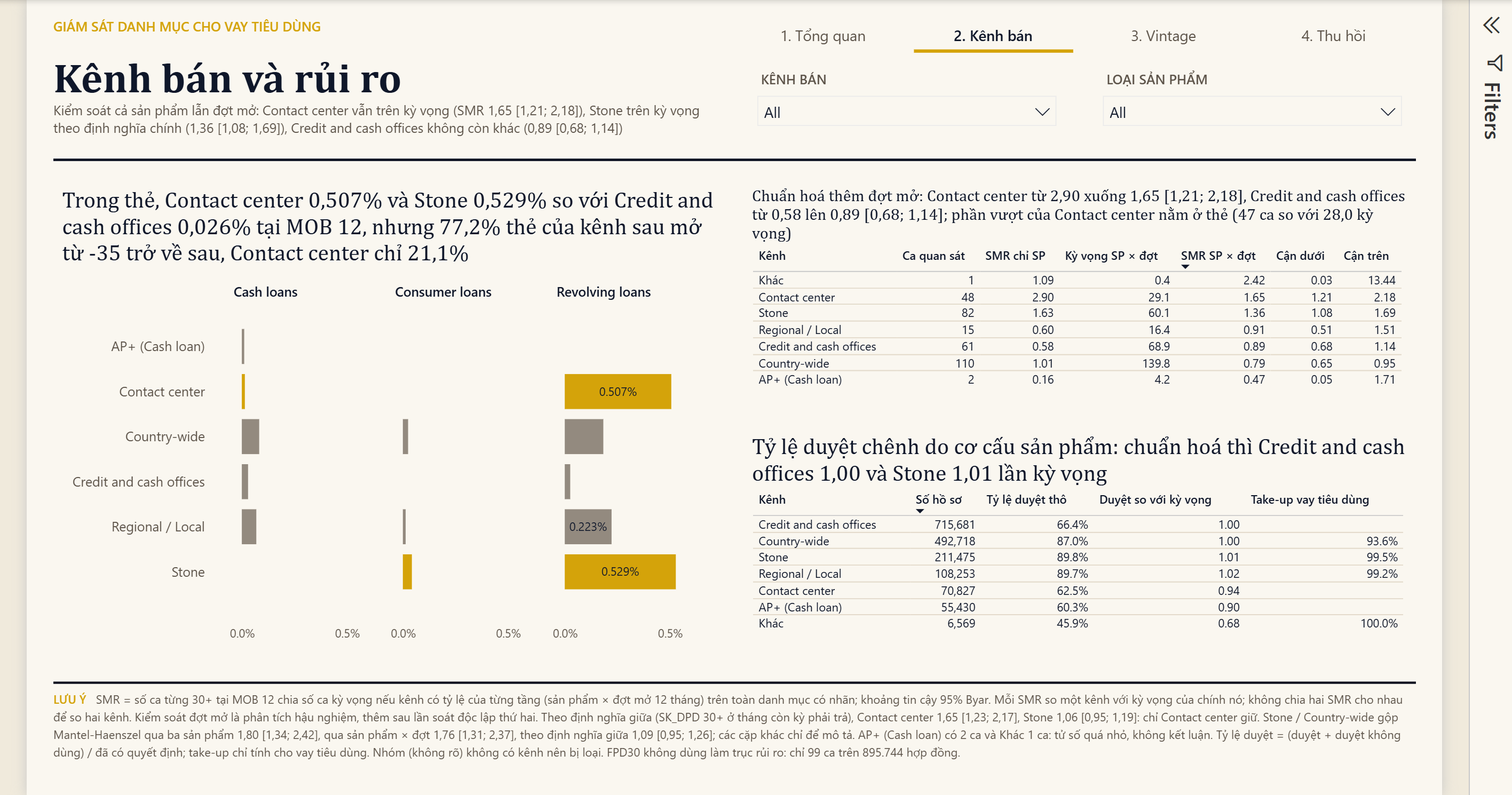
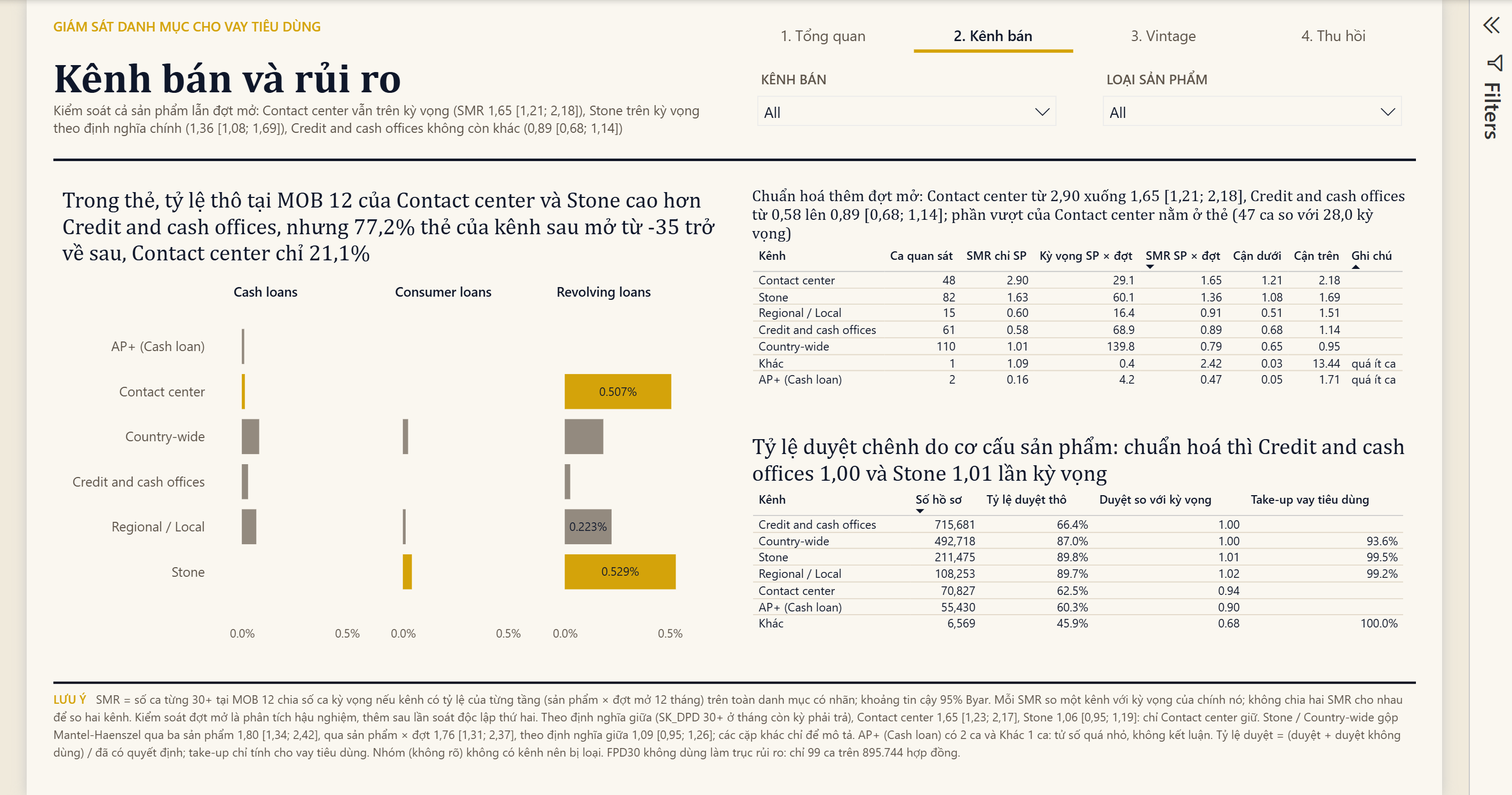
Trang 2: đẩy kênh quá ít ca xuống cuối bảng SMR, bỏ so tỷ lệ thô ở tiêu đề
- Bảng SMR (HTML và Power BI): kênh dưới 5 ca quan sát xếp cuối. Power BI thêm
  measure SMR MOB12 Few Cases Note ("quá ít ca") làm khoá sắp thứ nhất, SMR là
  khoá thứ hai; HTML ghi chú kênh dưới 5 ca quá ít ca, không kết luận.
- Tiêu đề biểu đồ kênh: không còn so ba tỷ lệ thô không kèm khoảng tin cậy ở vị
  trí nổi bật, giữ nguyên ý.
- Chụp lại ảnh trang 2.

diff --git a/dashboard/index.html b/dashboard/index.html
@@ -241,7 +241,7 @@ Dư nợ proxy: 0,048 tỷ" /><text x="60" y="88.0" class="t-label" text-anchor=
 40 hợp đồng (0,028% danh mục)
 Dư nợ proxy: 0,031 tỷ" /><text x="60" y="122.0" class="t-label" text-anchor="end" dominant-baseline="central" style="font-size:12.5px">B4 90+</text><rect x="70" y="112.0" width="13.4" height="20" class="f-grey" /><text x="89.4" y="122.0" class="t-value" dominant-baseline="central">56</text><rect class="hit" x="0" y="105" width="360" height="34" tabindex="0" data-tip="B4 90+
 56 hợp đồng (0,039% danh mục)
-Dư nợ proxy: 0,014 tỷ" /><line x1="70" y1="2" x2="70" y2="140" class="s-rule" /></svg></section><section class="viz "><h3 class="viz-title">Vay tiền mặt gánh 113 trên 159 ca 30+ đang mở, tỷ lệ 0,256% [0,213; 0,308]</h3><div class="table-wrap "><table><thead><tr><th>Sản phẩm</th><th class="num">Số hợp đồng mở</th><th class="num">Số hợp đồng 30+</th><th class="num">Tỷ lệ 30+ hiện tại</th></tr></thead><tbody><tr><td>(không rõ)</td><td class="num">6.810</td><td class="num">29</td><td class="num">0,426%</td></tr><tr><td>Vay tiền mặt</td><td class="num">44.098</td><td class="num">113</td><td class="num">0,256%</td></tr><tr><td>Vay tiêu dùng trả góp</td><td class="num">43.322</td><td class="num">12</td><td class="num">0,028%</td></tr><tr><td>Thẻ quay vòng</td><td class="num">50.191</td><td class="num">5</td><td class="num">0,010%</td></tr></tbody><tfoot><tr><td>Tổng</td><td class="num">144.421</td><td class="num">159</td><td class="num">0,110%</td></tr></tfoot></table></div></section></div></div><div class="rule-grey" role="presentation"></div><p class="caveat"><span class="caveat-tag">LƯU Ý</span>Ảnh chụp tại tháng quan sát gần nhất (144.421 hợp đồng mở). Hai thẻ tỷ lệ tính trên cùng một tập 144.311 hợp đồng có dư nợ proxy, tức bỏ 110 hợp đồng thiếu dư nợ chứa 24 trên 159 ca 30+, toàn bộ thuộc nhóm (không rõ); bỏ hẳn nhóm (không rõ) cũng ra 0,094% (130 / 137.611). Biểu đồ kênh và bảng sản phẩm tính trên mọi hợp đồng mở (30+ là 0,110%); khoảng tin cậy giữa các kênh chồng nhau và mỗi kênh bán một rổ sản phẩm khác nhau, nên biểu đồ không dùng để xếp hạng kênh. Nhóm (không rõ) chiếm 4,72% hợp đồng mở nhưng 29 trên 159 ca 30+: giữ trong bảng, loại khỏi biểu đồ kênh. Độ nhạy: nếu không áp ngưỡng trọng yếu (SK_DPD) thì có 585 hợp đồng 30+ và B4 90+ là 438 thay vì 56, nhưng tỷ lệ dư nợ 30+ chỉ từ 0,301% lên 0,312%: phần chênh là khoản dư lẻ.</p></section><section class="page" id="sec-2" data-hash="page-2" role="tabpanel" aria-labelledby="tab-2"><header class="masthead"><h2 class="page-title">Kênh bán và rủi ro</h2><p class="dek">Kiểm soát cả sản phẩm lẫn đợt mở: Contact center vẫn trên kỳ vọng (SMR 1,65 [1,21; 2,18]), Stone trên kỳ vọng theo định nghĩa chính (1,36 [1,08; 1,69]), Credit and cash offices không còn khác (0,89 [0,68; 1,14])</p></header><div class="rule-ink" role="presentation"></div><section class="viz viz-wide"><h3 class="viz-title">Trong thẻ, Contact center 0,507% và Stone 0,529% so với Credit and cash offices 0,026% tại MOB 12, nhưng 77,2% thẻ của kênh sau mở từ -35 trở về sau, Contact center chỉ 21,1%</h3><p class="viz-sub">Từng quá hạn 30+ tại MOB 12, mỗi ô một loại sản phẩm, thang chung từ 0 đến 0,6%; kênh Khác bị bỏ vì mẫu số nhỏ. Vay tiêu dùng: Stone 0,043% so với Country-wide 0,025%. Vay tiền mặt: Country-wide 0,083% so với Credit and cash offices 0,030%.</p><div class="trellis-3"><figure class="panel"><figcaption>Vay tiền mặt<span class="en">Cash loans</span></figcaption><svg class="chart " viewBox="0 0 360 186" role="img" aria-label="Ô Vay tiền mặt: tỷ lệ từng 30+ tại MOB 12 theo kênh, cùng thang với hai ô kia. Contact center 0,014%; Stone 0,000%; Country-wide 0,083%; Regional / Local 0,069%; Credit and cash offices 0,030%; AP+ (Cash loan) 0,011%" xmlns="http://www.w3.org/2000/svg"><text x="140" y="18.0" class="t-label" text-anchor="end" dominant-baseline="central" style="font-size:12px">Contact center</text><rect x="150" y="10.0" width="3.5" height="16" class="f-accent" /><text x="159.5" y="18.0" class="t-value" dominant-baseline="central">0,014%</text><rect class="hit" x="0" y="3" width="360" height="30" tabindex="0" data-tip="Contact center · Vay tiền mặt
+Dư nợ proxy: 0,014 tỷ" /><line x1="70" y1="2" x2="70" y2="140" class="s-rule" /></svg></section><section class="viz "><h3 class="viz-title">Vay tiền mặt gánh 113 trên 159 ca 30+ đang mở, tỷ lệ 0,256% [0,213; 0,308]</h3><div class="table-wrap "><table><thead><tr><th>Sản phẩm</th><th class="num">Số hợp đồng mở</th><th class="num">Số hợp đồng 30+</th><th class="num">Tỷ lệ 30+ hiện tại</th></tr></thead><tbody><tr><td>(không rõ)</td><td class="num">6.810</td><td class="num">29</td><td class="num">0,426%</td></tr><tr><td>Vay tiền mặt</td><td class="num">44.098</td><td class="num">113</td><td class="num">0,256%</td></tr><tr><td>Vay tiêu dùng trả góp</td><td class="num">43.322</td><td class="num">12</td><td class="num">0,028%</td></tr><tr><td>Thẻ quay vòng</td><td class="num">50.191</td><td class="num">5</td><td class="num">0,010%</td></tr></tbody><tfoot><tr><td>Tổng</td><td class="num">144.421</td><td class="num">159</td><td class="num">0,110%</td></tr></tfoot></table></div></section></div></div><div class="rule-grey" role="presentation"></div><p class="caveat"><span class="caveat-tag">LƯU Ý</span>Ảnh chụp tại tháng quan sát gần nhất (144.421 hợp đồng mở). Hai thẻ tỷ lệ tính trên cùng một tập 144.311 hợp đồng có dư nợ proxy, tức bỏ 110 hợp đồng thiếu dư nợ chứa 24 trên 159 ca 30+, toàn bộ thuộc nhóm (không rõ); bỏ hẳn nhóm (không rõ) cũng ra 0,094% (130 / 137.611). Biểu đồ kênh và bảng sản phẩm tính trên mọi hợp đồng mở (30+ là 0,110%); khoảng tin cậy giữa các kênh chồng nhau và mỗi kênh bán một rổ sản phẩm khác nhau, nên biểu đồ không dùng để xếp hạng kênh. Nhóm (không rõ) chiếm 4,72% hợp đồng mở nhưng 29 trên 159 ca 30+: giữ trong bảng, loại khỏi biểu đồ kênh. Độ nhạy: nếu không áp ngưỡng trọng yếu (SK_DPD) thì có 585 hợp đồng 30+ và B4 90+ là 438 thay vì 56, nhưng tỷ lệ dư nợ 30+ chỉ từ 0,301% lên 0,312%: phần chênh là khoản dư lẻ.</p></section><section class="page" id="sec-2" data-hash="page-2" role="tabpanel" aria-labelledby="tab-2"><header class="masthead"><h2 class="page-title">Kênh bán và rủi ro</h2><p class="dek">Kiểm soát cả sản phẩm lẫn đợt mở: Contact center vẫn trên kỳ vọng (SMR 1,65 [1,21; 2,18]), Stone trên kỳ vọng theo định nghĩa chính (1,36 [1,08; 1,69]), Credit and cash offices không còn khác (0,89 [0,68; 1,14])</p></header><div class="rule-ink" role="presentation"></div><section class="viz viz-wide"><h3 class="viz-title">Trong thẻ, tỷ lệ thô tại MOB 12 của Contact center và Stone cao hơn Credit and cash offices, nhưng 77,2% thẻ của kênh sau mở từ -35 trở về sau, Contact center chỉ 21,1%</h3><p class="viz-sub">Từng quá hạn 30+ tại MOB 12, mỗi ô một loại sản phẩm, thang chung từ 0 đến 0,6%; kênh Khác bị bỏ vì mẫu số nhỏ. Vay tiêu dùng: Stone 0,043% so với Country-wide 0,025%. Vay tiền mặt: Country-wide 0,083% so với Credit and cash offices 0,030%.</p><div class="trellis-3"><figure class="panel"><figcaption>Vay tiền mặt<span class="en">Cash loans</span></figcaption><svg class="chart " viewBox="0 0 360 186" role="img" aria-label="Ô Vay tiền mặt: tỷ lệ từng 30+ tại MOB 12 theo kênh, cùng thang với hai ô kia. Contact center 0,014%; Stone 0,000%; Country-wide 0,083%; Regional / Local 0,069%; Credit and cash offices 0,030%; AP+ (Cash loan) 0,011%" xmlns="http://www.w3.org/2000/svg"><text x="140" y="18.0" class="t-label" text-anchor="end" dominant-baseline="central" style="font-size:12px">Contact center</text><rect x="150" y="10.0" width="3.5" height="16" class="f-accent" /><text x="159.5" y="18.0" class="t-value" dominant-baseline="central">0,014%</text><rect class="hit" x="0" y="3" width="360" height="30" tabindex="0" data-tip="Contact center · Vay tiền mặt
 Từng 30+ tại MOB 12: 0,014%
 1 trên 6.924 hợp đồng" /><text x="140" y="48.0" class="t-label" text-anchor="end" dominant-baseline="central" style="font-size:12px">Stone</text><rect x="150" y="40.0" width="0.0" height="16" class="f-accent" /><text x="156.0" y="48.0" class="t-value" dominant-baseline="central">0,000%</text><rect class="hit" x="0" y="33" width="360" height="30" tabindex="0" data-tip="Stone · Vay tiền mặt
 Từng 30+ tại MOB 12: 0,000%
@@ -271,49 +271,49 @@ Từng 30+ tại MOB 12: 0,223%
 Từng 30+ tại MOB 12: 0,026%
 8 trên 30.821 hợp đồng" /><text x="140" y="168.0" class="t-label" text-anchor="end" dominant-baseline="central" style="font-size:12px">AP+ (Cash loan)</text><rect x="150" y="160.0" width="0.0" height="16" class="f-grey" /><text x="156.0" y="168.0" class="t-value" dominant-baseline="central">0,000%</text><rect class="hit" x="0" y="153" width="360" height="30" tabindex="0" data-tip="AP+ (Cash loan) · Thẻ quay vòng
 Từng 30+ tại MOB 12: 0,000%
-0 trên 4.424 hợp đồng" /><line x1="150" y1="2" x2="150" y2="184" class="s-rule" /></svg></figure></div><p class="viz-note">* mẫu số tại MOB 12 dưới 1.000 hợp đồng, không diễn giải.</p></section><div class="grid-2"><section class="viz "><h3 class="viz-title">Chuẩn hoá thêm đợt mở: Contact center từ 2,90 xuống 1,65 [1,21; 2,18], Credit and cash offices từ 0,58 lên 0,89 [0,68; 1,14]; phần vượt của Contact center nằm ở thẻ (47 ca so với 28,0 kỳ vọng)</h3><div class="only-wide"><svg class="chart " viewBox="0 0 560 240" role="img" aria-label="SMR từng 30+ tại MOB 12 theo kênh, chuẩn hoá theo sản phẩm × đợt mở, kèm khoảng tin cậy 95%: Khác 2,42 [0,03; 13,44] (chỉ sản phẩm 1,09); Contact center 1,65 [1,21; 2,18] (chỉ sản phẩm 2,90); Stone 1,36 [1,08; 1,69] (chỉ sản phẩm 1,63); Regional / Local 0,91 [0,51; 1,51] (chỉ sản phẩm 0,60); Credit and cash offices 0,89 [0,68; 1,14] (chỉ sản phẩm 0,58); Country-wide 0,79 [0,65; 0,95] (chỉ sản phẩm 1,01); AP+ (Cash loan) 0,47 [0,05; 1,71] (chỉ sản phẩm 0,16)" xmlns="http://www.w3.org/2000/svg"><text x="150.0" y="234" class="t-axis" text-anchor="middle">0</text><text x="223.0" y="234" class="t-axis" text-anchor="middle">1</text><text x="296.0" y="234" class="t-axis" text-anchor="middle">2</text><text x="369.0" y="234" class="t-axis" text-anchor="middle">3</text><text x="442.0" y="234" class="t-axis" text-anchor="middle">4</text><line x1="223.0" x2="223.0" y1="4" y2="220" class="s-base" stroke-dasharray="3 3" /><text x="140" y="21.0" class="t-label" text-anchor="end" dominant-baseline="central" style="font-size:12.5px">Khác</text><line x1="152.3" x2="442.0" y1="21.0" y2="21.0" class="s-greyl" stroke-width="3" stroke-linecap="round" /><circle cx="229.8" cy="21.0" r="4.5" fill="none" class="s-ink" stroke-width="1.4" /><circle cx="326.3" cy="21.0" r="5.5" class="f-grey" /><text x="450" y="21.0" class="t-muted" dominant-baseline="central">2,42 [0,03; 13,44]</text><rect class="hit" x="0" y="6" width="560" height="30" tabindex="0" data-tip="Khác
+0 trên 4.424 hợp đồng" /><line x1="150" y1="2" x2="150" y2="184" class="s-rule" /></svg></figure></div><p class="viz-note">* mẫu số tại MOB 12 dưới 1.000 hợp đồng, không diễn giải.</p></section><div class="grid-2"><section class="viz "><h3 class="viz-title">Chuẩn hoá thêm đợt mở: Contact center từ 2,90 xuống 1,65 [1,21; 2,18], Credit and cash offices từ 0,58 lên 0,89 [0,68; 1,14]; phần vượt của Contact center nằm ở thẻ (47 ca so với 28,0 kỳ vọng)</h3><div class="only-wide"><svg class="chart " viewBox="0 0 560 240" role="img" aria-label="SMR từng 30+ tại MOB 12 theo kênh, chuẩn hoá theo sản phẩm × đợt mở, kèm khoảng tin cậy 95%: Contact center 1,65 [1,21; 2,18] (chỉ sản phẩm 2,90); Stone 1,36 [1,08; 1,69] (chỉ sản phẩm 1,63); Regional / Local 0,91 [0,51; 1,51] (chỉ sản phẩm 0,60); Credit and cash offices 0,89 [0,68; 1,14] (chỉ sản phẩm 0,58); Country-wide 0,79 [0,65; 0,95] (chỉ sản phẩm 1,01); Khác 2,42 [0,03; 13,44] (chỉ sản phẩm 1,09); AP+ (Cash loan) 0,47 [0,05; 1,71] (chỉ sản phẩm 0,16)" xmlns="http://www.w3.org/2000/svg"><text x="150.0" y="234" class="t-axis" text-anchor="middle">0</text><text x="223.0" y="234" class="t-axis" text-anchor="middle">1</text><text x="296.0" y="234" class="t-axis" text-anchor="middle">2</text><text x="369.0" y="234" class="t-axis" text-anchor="middle">3</text><text x="442.0" y="234" class="t-axis" text-anchor="middle">4</text><line x1="223.0" x2="223.0" y1="4" y2="220" class="s-base" stroke-dasharray="3 3" /><text x="140" y="21.0" class="t-label t-strong" text-anchor="end" dominant-baseline="central" style="font-size:12.5px">Contact center</text><line x1="238.7" x2="309.5" y1="21.0" y2="21.0" class="s-accent" stroke-width="3" stroke-linecap="round" /><circle cx="361.5" cy="21.0" r="4.5" fill="none" class="s-ink" stroke-width="1.4" /><circle cx="270.3" cy="21.0" r="5.5" class="f-accent" /><text x="450" y="21.0" class="t-value" dominant-baseline="central">1,65 [1,21; 2,18]</text><rect class="hit" x="0" y="6" width="560" height="30" tabindex="0" data-tip="Contact center
+SMR sản phẩm × đợt mở 1,65 [1,21; 2,18]
+SMR chỉ sản phẩm 2,90
+Quan sát 48 ca, kỳ vọng 29,1 ca" /><text x="140" y="51.0" class="t-label t-strong" text-anchor="end" dominant-baseline="central" style="font-size:12.5px">Stone</text><line x1="229.2" x2="273.6" y1="51.0" y2="51.0" class="s-accent" stroke-width="3" stroke-linecap="round" /><circle cx="269.0" cy="51.0" r="4.5" fill="none" class="s-ink" stroke-width="1.4" /><circle cx="249.6" cy="51.0" r="5.5" class="f-accent" /><text x="450" y="51.0" class="t-value" dominant-baseline="central">1,36 [1,08; 1,69]</text><rect class="hit" x="0" y="36" width="560" height="30" tabindex="0" data-tip="Stone
+SMR sản phẩm × đợt mở 1,36 [1,08; 1,69]
+SMR chỉ sản phẩm 1,63
+Quan sát 82 ca, kỳ vọng 60,1 ca" /><text x="140" y="81.0" class="t-label" text-anchor="end" dominant-baseline="central" style="font-size:12.5px">Regional / Local</text><line x1="187.4" x2="260.2" y1="81.0" y2="81.0" class="s-greyl" stroke-width="3" stroke-linecap="round" /><circle cx="194.1" cy="81.0" r="4.5" fill="none" class="s-ink" stroke-width="1.4" /><circle cx="216.8" cy="81.0" r="5.5" class="f-grey" /><text x="450" y="81.0" class="t-value" dominant-baseline="central">0,91 [0,51; 1,51]</text><rect class="hit" x="0" y="66" width="560" height="30" tabindex="0" data-tip="Regional / Local
+SMR sản phẩm × đợt mở 0,91 [0,51; 1,51]
+SMR chỉ sản phẩm 0,60
+Quan sát 15 ca, kỳ vọng 16,4 ca" /><text x="140" y="111.0" class="t-label" text-anchor="end" dominant-baseline="central" style="font-size:12.5px">Credit and cash offices</text><line x1="199.4" x2="233.0" y1="111.0" y2="111.0" class="s-greyl" stroke-width="3" stroke-linecap="round" /><circle cx="192.5" cy="111.0" r="4.5" fill="none" class="s-ink" stroke-width="1.4" /><circle cx="214.6" cy="111.0" r="5.5" class="f-grey" /><text x="450" y="111.0" class="t-value" dominant-baseline="central">0,89 [0,68; 1,14]</text><rect class="hit" x="0" y="96" width="560" height="30" tabindex="0" data-tip="Credit and cash offices
+SMR sản phẩm × đợt mở 0,89 [0,68; 1,14]
+SMR chỉ sản phẩm 0,58
+Quan sát 61 ca, kỳ vọng 68,9 ca" /><text x="140" y="141.0" class="t-label" text-anchor="end" dominant-baseline="central" style="font-size:12.5px">Country-wide</text><line x1="197.2" x2="219.2" y1="141.0" y2="141.0" class="s-greyl" stroke-width="3" stroke-linecap="round" /><circle cx="223.5" cy="141.0" r="4.5" fill="none" class="s-ink" stroke-width="1.4" /><circle cx="207.4" cy="141.0" r="5.5" class="f-grey" /><text x="450" y="141.0" class="t-value" dominant-baseline="central">0,79 [0,65; 0,95]</text><rect class="hit" x="0" y="126" width="560" height="30" tabindex="0" data-tip="Country-wide
+SMR sản phẩm × đợt mở 0,79 [0,65; 0,95]
+SMR chỉ sản phẩm 1,01
+Quan sát 110 ca, kỳ vọng 139,8 ca" /><text x="140" y="171.0" class="t-label" text-anchor="end" dominant-baseline="central" style="font-size:12.5px">Khác</text><line x1="152.3" x2="442.0" y1="171.0" y2="171.0" class="s-greyl" stroke-width="3" stroke-linecap="round" /><circle cx="229.8" cy="171.0" r="4.5" fill="none" class="s-ink" stroke-width="1.4" /><circle cx="326.3" cy="171.0" r="5.5" class="f-grey" /><text x="450" y="171.0" class="t-muted" dominant-baseline="central">2,42 [0,03; 13,44]</text><rect class="hit" x="0" y="156" width="560" height="30" tabindex="0" data-tip="Khác
 SMR sản phẩm × đợt mở 2,42 [0,03; 13,44]
 SMR chỉ sản phẩm 1,09
 Quan sát 1 ca, kỳ vọng 0,4 ca
-Tử số dưới 10: không kết luận" /><text x="140" y="51.0" class="t-label t-strong" text-anchor="end" dominant-baseline="central" style="font-size:12.5px">Contact center</text><line x1="238.7" x2="309.5" y1="51.0" y2="51.0" class="s-accent" stroke-width="3" stroke-linecap="round" /><circle cx="361.5" cy="51.0" r="4.5" fill="none" class="s-ink" stroke-width="1.4" /><circle cx="270.3" cy="51.0" r="5.5" class="f-accent" /><text x="450" y="51.0" class="t-value" dominant-baseline="central">1,65 [1,21; 2,18]</text><rect class="hit" x="0" y="36" width="560" height="30" tabindex="0" data-tip="Contact center
-SMR sản phẩm × đợt mở 1,65 [1,21; 2,18]
-SMR chỉ sản phẩm 2,90
-Quan sát 48 ca, kỳ vọng 29,1 ca" /><text x="140" y="81.0" class="t-label t-strong" text-anchor="end" dominant-baseline="central" style="font-size:12.5px">Stone</text><line x1="229.2" x2="273.6" y1="81.0" y2="81.0" class="s-accent" stroke-width="3" stroke-linecap="round" /><circle cx="269.0" cy="81.0" r="4.5" fill="none" class="s-ink" stroke-width="1.4" /><circle cx="249.6" cy="81.0" r="5.5" class="f-accent" /><text x="450" y="81.0" class="t-value" dominant-baseline="central">1,36 [1,08; 1,69]</text><rect class="hit" x="0" y="66" width="560" height="30" tabindex="0" data-tip="Stone
-SMR sản phẩm × đợt mở 1,36 [1,08; 1,69]
-SMR chỉ sản phẩm 1,63
-Quan sát 82 ca, kỳ vọng 60,1 ca" /><text x="140" y="111.0" class="t-label" text-anchor="end" dominant-baseline="central" style="font-size:12.5px">Regional / Local</text><line x1="187.4" x2="260.2" y1="111.0" y2="111.0" class="s-greyl" stroke-width="3" stroke-linecap="round" /><circle cx="194.1" cy="111.0" r="4.5" fill="none" class="s-ink" stroke-width="1.4" /><circle cx="216.8" cy="111.0" r="5.5" class="f-grey" /><text x="450" y="111.0" class="t-value" dominant-baseline="central">0,91 [0,51; 1,51]</text><rect class="hit" x="0" y="96" width="560" height="30" tabindex="0" data-tip="Regional / Local
-SMR sản phẩm × đợt mở 0,91 [0,51; 1,51]
-SMR chỉ sản phẩm 0,60
-Quan sát 15 ca, kỳ vọng 16,4 ca" /><text x="140" y="141.0" class="t-label" text-anchor="end" dominant-baseline="central" style="font-size:12.5px">Credit and cash offices</text><line x1="199.4" x2="233.0" y1="141.0" y2="141.0" class="s-greyl" stroke-width="3" stroke-linecap="round" /><circle cx="192.5" cy="141.0" r="4.5" fill="none" class="s-ink" stroke-width="1.4" /><circle cx="214.6" cy="141.0" r="5.5" class="f-grey" /><text x="450" y="141.0" class="t-value" dominant-baseline="central">0,89 [0,68; 1,14]</text><rect class="hit" x="0" y="126" width="560" height="30" tabindex="0" data-tip="Credit and cash offices
-SMR sản phẩm × đợt mở 0,89 [0,68; 1,14]
-SMR chỉ sản phẩm 0,58
-Quan sát 61 ca, kỳ vọng 68,9 ca" /><text x="140" y="171.0" class="t-label" text-anchor="end" dominant-baseline="central" style="font-size:12.5px">Country-wide</text><line x1="197.2" x2="219.2" y1="171.0" y2="171.0" class="s-greyl" stroke-width="3" stroke-linecap="round" /><circle cx="223.5" cy="171.0" r="4.5" fill="none" class="s-ink" stroke-width="1.4" /><circle cx="207.4" cy="171.0" r="5.5" class="f-grey" /><text x="450" y="171.0" class="t-value" dominant-baseline="central">0,79 [0,65; 0,95]</text><rect class="hit" x="0" y="156" width="560" height="30" tabindex="0" data-tip="Country-wide
-SMR sản phẩm × đợt mở 0,79 [0,65; 0,95]
-SMR chỉ sản phẩm 1,01
-Quan sát 110 ca, kỳ vọng 139,8 ca" /><text x="140" y="201.0" class="t-label" text-anchor="end" dominant-baseline="central" style="font-size:12.5px">AP+ (Cash loan)</text><line x1="153.9" x2="274.9" y1="201.0" y2="201.0" class="s-greyl" stroke-width="3" stroke-linecap="round" /><circle cx="161.7" cy="201.0" r="4.5" fill="none" class="s-ink" stroke-width="1.4" /><circle cx="184.6" cy="201.0" r="5.5" class="f-grey" /><text x="450" y="201.0" class="t-muted" dominant-baseline="central">0,47 [0,05; 1,71]</text><rect class="hit" x="0" y="186" width="560" height="30" tabindex="0" data-tip="AP+ (Cash loan)
+Tử số dưới 10: không kết luận" /><text x="140" y="201.0" class="t-label" text-anchor="end" dominant-baseline="central" style="font-size:12.5px">AP+ (Cash loan)</text><line x1="153.9" x2="274.9" y1="201.0" y2="201.0" class="s-greyl" stroke-width="3" stroke-linecap="round" /><circle cx="161.7" cy="201.0" r="4.5" fill="none" class="s-ink" stroke-width="1.4" /><circle cx="184.6" cy="201.0" r="5.5" class="f-grey" /><text x="450" y="201.0" class="t-muted" dominant-baseline="central">0,47 [0,05; 1,71]</text><rect class="hit" x="0" y="186" width="560" height="30" tabindex="0" data-tip="AP+ (Cash loan)
 SMR sản phẩm × đợt mở 0,47 [0,05; 1,71]
 SMR chỉ sản phẩm 0,16
 Quan sát 2 ca, kỳ vọng 4,2 ca
-Tử số dưới 10: không kết luận" /></svg></div><div class="only-narrow"><svg class="chart " viewBox="0 0 360 240" role="img" aria-label="SMR từng 30+ tại MOB 12 theo kênh, chuẩn hoá theo sản phẩm × đợt mở, kèm khoảng tin cậy 95%: Khác 2,42 [0,03; 13,44] (chỉ sản phẩm 1,09); Contact center 1,65 [1,21; 2,18] (chỉ sản phẩm 2,90); Stone 1,36 [1,08; 1,69] (chỉ sản phẩm 1,63); Regional / Local 0,91 [0,51; 1,51] (chỉ sản phẩm 0,60); Credit and cash offices 0,89 [0,68; 1,14] (chỉ sản phẩm 0,58); Country-wide 0,79 [0,65; 0,95] (chỉ sản phẩm 1,01); AP+ (Cash loan) 0,47 [0,05; 1,71] (chỉ sản phẩm 0,16)" xmlns="http://www.w3.org/2000/svg"><text x="118.0" y="234" class="t-axis" text-anchor="middle">0</text><text x="154.5" y="234" class="t-axis" text-anchor="middle">1</text><text x="191.0" y="234" class="t-axis" text-anchor="middle">2</text><text x="227.5" y="234" class="t-axis" text-anchor="middle">3</text><text x="264.0" y="234" class="t-axis" text-anchor="middle">4</text><line x1="154.5" x2="154.5" y1="4" y2="220" class="s-base" stroke-dasharray="3 3" /><text x="108" y="21.0" class="t-label" text-anchor="end" dominant-baseline="central" style="font-size:11px">Khác</text><line x1="119.2" x2="264.0" y1="21.0" y2="21.0" class="s-greyl" stroke-width="3" stroke-linecap="round" /><circle cx="157.9" cy="21.0" r="4.5" fill="none" class="s-ink" stroke-width="1.4" /><circle cx="206.2" cy="21.0" r="5.5" class="f-grey" /><text x="272" y="21.0" class="t-muted" dominant-baseline="central">2,42 [0,03; 13,44]</text><rect class="hit" x="0" y="6" width="360" height="30" tabindex="0" data-tip="Khác
+Tử số dưới 10: không kết luận" /></svg></div><div class="only-narrow"><svg class="chart " viewBox="0 0 360 240" role="img" aria-label="SMR từng 30+ tại MOB 12 theo kênh, chuẩn hoá theo sản phẩm × đợt mở, kèm khoảng tin cậy 95%: Contact center 1,65 [1,21; 2,18] (chỉ sản phẩm 2,90); Stone 1,36 [1,08; 1,69] (chỉ sản phẩm 1,63); Regional / Local 0,91 [0,51; 1,51] (chỉ sản phẩm 0,60); Credit and cash offices 0,89 [0,68; 1,14] (chỉ sản phẩm 0,58); Country-wide 0,79 [0,65; 0,95] (chỉ sản phẩm 1,01); Khác 2,42 [0,03; 13,44] (chỉ sản phẩm 1,09); AP+ (Cash loan) 0,47 [0,05; 1,71] (chỉ sản phẩm 0,16)" xmlns="http://www.w3.org/2000/svg"><text x="118.0" y="234" class="t-axis" text-anchor="middle">0</text><text x="154.5" y="234" class="t-axis" text-anchor="middle">1</text><text x="191.0" y="234" class="t-axis" text-anchor="middle">2</text><text x="227.5" y="234" class="t-axis" text-anchor="middle">3</text><text x="264.0" y="234" class="t-axis" text-anchor="middle">4</text><line x1="154.5" x2="154.5" y1="4" y2="220" class="s-base" stroke-dasharray="3 3" /><text x="108" y="21.0" class="t-label t-strong" text-anchor="end" dominant-baseline="central" style="font-size:11px">Contact center</text><line x1="162.3" x2="197.7" y1="21.0" y2="21.0" class="s-accent" stroke-width="3" stroke-linecap="round" /><circle cx="223.7" cy="21.0" r="4.5" fill="none" class="s-ink" stroke-width="1.4" /><circle cx="178.1" cy="21.0" r="5.5" class="f-accent" /><text x="272" y="21.0" class="t-value" dominant-baseline="central">1,65 [1,21; 2,18]</text><rect class="hit" x="0" y="6" width="360" height="30" tabindex="0" data-tip="Contact center
+SMR sản phẩm × đợt mở 1,65 [1,21; 2,18]
+SMR chỉ sản phẩm 2,90
+Quan sát 48 ca, kỳ vọng 29,1 ca" /><text x="108" y="51.0" class="t-label t-strong" text-anchor="end" dominant-baseline="central" style="font-size:11px">Stone</text><line x1="157.6" x2="179.8" y1="51.0" y2="51.0" class="s-accent" stroke-width="3" stroke-linecap="round" /><circle cx="177.5" cy="51.0" r="4.5" fill="none" class="s-ink" stroke-width="1.4" /><circle cx="167.8" cy="51.0" r="5.5" class="f-accent" /><text x="272" y="51.0" class="t-value" dominant-baseline="central">1,36 [1,08; 1,69]</text><rect class="hit" x="0" y="36" width="360" height="30" tabindex="0" data-tip="Stone
+SMR sản phẩm × đợt mở 1,36 [1,08; 1,69]
+SMR chỉ sản phẩm 1,63
+Quan sát 82 ca, kỳ vọng 60,1 ca" /><text x="108" y="81.0" class="t-label" text-anchor="end" dominant-baseline="central" style="font-size:11px">Regional / Local</text><line x1="136.7" x2="173.1" y1="81.0" y2="81.0" class="s-greyl" stroke-width="3" stroke-linecap="round" /><circle cx="140.0" cy="81.0" r="4.5" fill="none" class="s-ink" stroke-width="1.4" /><circle cx="151.4" cy="81.0" r="5.5" class="f-grey" /><text x="272" y="81.0" class="t-value" dominant-baseline="central">0,91 [0,51; 1,51]</text><rect class="hit" x="0" y="66" width="360" height="30" tabindex="0" data-tip="Regional / Local
+SMR sản phẩm × đợt mở 0,91 [0,51; 1,51]
+SMR chỉ sản phẩm 0,60
+Quan sát 15 ca, kỳ vọng 16,4 ca" /><text x="108" y="111.0" class="t-label" text-anchor="end" dominant-baseline="central" style="font-size:11px">Credit and cash offices</text><line x1="142.7" x2="159.5" y1="111.0" y2="111.0" class="s-greyl" stroke-width="3" stroke-linecap="round" /><circle cx="139.3" cy="111.0" r="4.5" fill="none" class="s-ink" stroke-width="1.4" /><circle cx="150.3" cy="111.0" r="5.5" class="f-grey" /><text x="272" y="111.0" class="t-value" dominant-baseline="central">0,89 [0,68; 1,14]</text><rect class="hit" x="0" y="96" width="360" height="30" tabindex="0" data-tip="Credit and cash offices
+SMR sản phẩm × đợt mở 0,89 [0,68; 1,14]
+SMR chỉ sản phẩm 0,58
+Quan sát 61 ca, kỳ vọng 68,9 ca" /><text x="108" y="141.0" class="t-label" text-anchor="end" dominant-baseline="central" style="font-size:11px">Country-wide</text><line x1="141.6" x2="152.6" y1="141.0" y2="141.0" class="s-greyl" stroke-width="3" stroke-linecap="round" /><circle cx="154.8" cy="141.0" r="4.5" fill="none" class="s-ink" stroke-width="1.4" /><circle cx="146.7" cy="141.0" r="5.5" class="f-grey" /><text x="272" y="141.0" class="t-value" dominant-baseline="central">0,79 [0,65; 0,95]</text><rect class="hit" x="0" y="126" width="360" height="30" tabindex="0" data-tip="Country-wide
+SMR sản phẩm × đợt mở 0,79 [0,65; 0,95]
+SMR chỉ sản phẩm 1,01
+Quan sát 110 ca, kỳ vọng 139,8 ca" /><text x="108" y="171.0" class="t-label" text-anchor="end" dominant-baseline="central" style="font-size:11px">Khác</text><line x1="119.2" x2="264.0" y1="171.0" y2="171.0" class="s-greyl" stroke-width="3" stroke-linecap="round" /><circle cx="157.9" cy="171.0" r="4.5" fill="none" class="s-ink" stroke-width="1.4" /><circle cx="206.2" cy="171.0" r="5.5" class="f-grey" /><text x="272" y="171.0" class="t-muted" dominant-baseline="central">2,42 [0,03; 13,44]</text><rect class="hit" x="0" y="156" width="360" height="30" tabindex="0" data-tip="Khác
 SMR sản phẩm × đợt mở 2,42 [0,03; 13,44]
 SMR chỉ sản phẩm 1,09
 Quan sát 1 ca, kỳ vọng 0,4 ca
-Tử số dưới 10: không kết luận" /><text x="108" y="51.0" class="t-label t-strong" text-anchor="end" dominant-baseline="central" style="font-size:11px">Contact center</text><line x1="162.3" x2="197.7" y1="51.0" y2="51.0" class="s-accent" stroke-width="3" stroke-linecap="round" /><circle cx="223.7" cy="51.0" r="4.5" fill="none" class="s-ink" stroke-width="1.4" /><circle cx="178.1" cy="51.0" r="5.5" class="f-accent" /><text x="272" y="51.0" class="t-value" dominant-baseline="central">1,65 [1,21; 2,18]</text><rect class="hit" x="0" y="36" width="360" height="30" tabindex="0" data-tip="Contact center
-SMR sản phẩm × đợt mở 1,65 [1,21; 2,18]
-SMR chỉ sản phẩm 2,90
-Quan sát 48 ca, kỳ vọng 29,1 ca" /><text x="108" y="81.0" class="t-label t-strong" text-anchor="end" dominant-baseline="central" style="font-size:11px">Stone</text><line x1="157.6" x2="179.8" y1="81.0" y2="81.0" class="s-accent" stroke-width="3" stroke-linecap="round" /><circle cx="177.5" cy="81.0" r="4.5" fill="none" class="s-ink" stroke-width="1.4" /><circle cx="167.8" cy="81.0" r="5.5" class="f-accent" /><text x="272" y="81.0" class="t-value" dominant-baseline="central">1,36 [1,08; 1,69]</text><rect class="hit" x="0" y="66" width="360" height="30" tabindex="0" data-tip="Stone
-SMR sản phẩm × đợt mở 1,36 [1,08; 1,69]
-SMR chỉ sản phẩm 1,63
-Quan sát 82 ca, kỳ vọng 60,1 ca" /><text x="108" y="111.0" class="t-label" text-anchor="end" dominant-baseline="central" style="font-size:11px">Regional / Local</text><line x1="136.7" x2="173.1" y1="111.0" y2="111.0" class="s-greyl" stroke-width="3" stroke-linecap="round" /><circle cx="140.0" cy="111.0" r="4.5" fill="none" class="s-ink" stroke-width="1.4" /><circle cx="151.4" cy="111.0" r="5.5" class="f-grey" /><text x="272" y="111.0" class="t-value" dominant-baseline="central">0,91 [0,51; 1,51]</text><rect class="hit" x="0" y="96" width="360" height="30" tabindex="0" data-tip="Regional / Local
-SMR sản phẩm × đợt mở 0,91 [0,51; 1,51]
-SMR chỉ sản phẩm 0,60
-Quan sát 15 ca, kỳ vọng 16,4 ca" /><text x="108" y="141.0" class="t-label" text-anchor="end" dominant-baseline="central" style="font-size:11px">Credit and cash offices</text><line x1="142.7" x2="159.5" y1="141.0" y2="141.0" class="s-greyl" stroke-width="3" stroke-linecap="round" /><circle cx="139.3" cy="141.0" r="4.5" fill="none" class="s-ink" stroke-width="1.4" /><circle cx="150.3" cy="141.0" r="5.5" class="f-grey" /><text x="272" y="141.0" class="t-value" dominant-baseline="central">0,89 [0,68; 1,14]</text><rect class="hit" x="0" y="126" width="360" height="30" tabindex="0" data-tip="Credit and cash offices
-SMR sản phẩm × đợt mở 0,89 [0,68; 1,14]
-SMR chỉ sản phẩm 0,58
-Quan sát 61 ca, kỳ vọng 68,9 ca" /><text x="108" y="171.0" class="t-label" text-anchor="end" dominant-baseline="central" style="font-size:11px">Country-wide</text><line x1="141.6" x2="152.6" y1="171.0" y2="171.0" class="s-greyl" stroke-width="3" stroke-linecap="round" /><circle cx="154.8" cy="171.0" r="4.5" fill="none" class="s-ink" stroke-width="1.4" /><circle cx="146.7" cy="171.0" r="5.5" class="f-grey" /><text x="272" y="171.0" class="t-value" dominant-baseline="central">0,79 [0,65; 0,95]</text><rect class="hit" x="0" y="156" width="360" height="30" tabindex="0" data-tip="Country-wide
-SMR sản phẩm × đợt mở 0,79 [0,65; 0,95]
-SMR chỉ sản phẩm 1,01
-Quan sát 110 ca, kỳ vọng 139,8 ca" /><text x="108" y="201.0" class="t-label" text-anchor="end" dominant-baseline="central" style="font-size:11px">AP+ (Cash loan)</text><line x1="119.9" x2="180.4" y1="201.0" y2="201.0" class="s-greyl" stroke-width="3" stroke-linecap="round" /><circle cx="123.8" cy="201.0" r="4.5" fill="none" class="s-ink" stroke-width="1.4" /><circle cx="135.3" cy="201.0" r="5.5" class="f-grey" /><text x="272" y="201.0" class="t-muted" dominant-baseline="central">0,47 [0,05; 1,71]</text><rect class="hit" x="0" y="186" width="360" height="30" tabindex="0" data-tip="AP+ (Cash loan)
+Tử số dưới 10: không kết luận" /><text x="108" y="201.0" class="t-label" text-anchor="end" dominant-baseline="central" style="font-size:11px">AP+ (Cash loan)</text><line x1="119.9" x2="180.4" y1="201.0" y2="201.0" class="s-greyl" stroke-width="3" stroke-linecap="round" /><circle cx="123.8" cy="201.0" r="4.5" fill="none" class="s-ink" stroke-width="1.4" /><circle cx="135.3" cy="201.0" r="5.5" class="f-grey" /><text x="272" y="201.0" class="t-muted" dominant-baseline="central">0,47 [0,05; 1,71]</text><rect class="hit" x="0" y="186" width="360" height="30" tabindex="0" data-tip="AP+ (Cash loan)
 SMR sản phẩm × đợt mở 0,47 [0,05; 1,71]
 SMR chỉ sản phẩm 0,16
 Quan sát 2 ca, kỳ vọng 4,2 ca

diff --git a/scripts/build_pbip_report.py b/scripts/build_pbip_report.py
@@ -712,12 +712,16 @@ v2.append(data_table(
                 ("Vintage", "Expected 30 Plus MOB12 Cohort", "meas", "Kỳ vọng SP × đợt"),
                 ("Vintage", "SMR MOB12 Cohort", "meas", "SMR SP × đợt"),
                 ("Vintage", "SMR MOB12 Cohort CI Low", "meas", "Cận dưới"),
-                ("Vintage", "SMR MOB12 Cohort CI High", "meas", "Cận trên")]},
+                ("Vintage", "SMR MOB12 Cohort CI High", "meas", "Cận trên"),
+                ("Vintage", "SMR MOB12 Few Cases Note", "meas", "Ghi chú")]},
     1200, V2["smr"],
     "Bảng SMR theo kênh tại MOB 12: số ca quan sát, SMR chỉ chuẩn hoá theo sản phẩm, số ca kỳ vọng "
     "và SMR khi chuẩn hoá theo sản phẩm × đợt mở 12 tháng kèm khoảng tin cậy 95%, sắp giảm dần theo "
-    "SMR sản phẩm × đợt.",
-    sort=sort_by_measure("Vintage", "SMR MOB12 Cohort"),
+    "SMR sản phẩm × đợt; kênh dưới 5 ca quan sát xếp cuối, ghi chú quá ít ca, không kết luận.",
+    # Khoá 1: ghi chú tăng dần (trống trước, kênh dưới 5 ca xuống cuối); khoá 2: SMR giảm dần.
+    sort={"sort": [{"field": fmeas("Vintage", "SMR MOB12 Few Cases Note"), "direction": "Ascending"},
+                   {"field": fmeas("Vintage", "SMR MOB12 Cohort"), "direction": "Descending"}],
+          "isDefaultSort": True},
     filters=[exclude("Dim Channel", "Kênh", UNKNOWN, p2 + "|smr")],
     row_pad=0, size=8, totals=False, title_size=11))
 

diff --git a/scripts/build_pbip_model.py b/scripts/build_pbip_model.py
@@ -109,7 +109,8 @@ def measure(name, dax, fmt, desc):
         for ln in lines:
             s += "\t\t\t{}\n".format(ln)
         s += "\t\t\t```\n"
-    s += "\t\tformatString: {}\n".format(fmt)
+    if fmt is not None:
+        s += "\t\tformatString: {}\n".format(fmt)
     return s + "\n"
 
 
@@ -325,6 +326,8 @@ SUMX(
                 "Số ca KỲ VỌNG (E) tại MOB 12 nếu kênh có tỷ lệ của từng tầng sản phẩm × đợt mở 12 tháng trên toàn danh mục.\nKhớp origination_cohort.mob12.smr_by_channel.product_x_cut12.primary[].expected trong findings.json.")
       + measure("SMR MOB12 Cohort", "DIVIDE([Ever 30 Plus Loans MOB12], [Expected 30 Plus MOB12 Cohort])", RATIO,
                 "SMR kiểm soát cả sản phẩm lẫn đợt mở = O / E theo tầng sản phẩm × đợt. Tử số dưới 10 thì không kết luận.")
+      + measure("SMR MOB12 Few Cases Note", 'IF([Ever 30 Plus Loans MOB12] < 5, "quá ít ca")', None,
+                "Ghi chú cho kênh có dưới 5 ca quan sát tại MOB 12. Dùng làm khoá sắp đầu tiên của bảng SMR để kênh quá ít ca xuống cuối.")
       + measure("SMR MOB12 Cohort CI Low", """
 VAR O = [Ever 30 Plus Loans MOB12]
 VAR E = [Expected 30 Plus MOB12 Cohort]

diff --git a/scripts/build_dashboard.py b/scripts/build_dashboard.py
@@ -93,6 +93,7 @@ HL_P4_FROM = "B1 1-30"                         # nhóm còn cửa sổ thu hồi
 
 OTHER_CHANNEL = "Khác"  # nhóm kênh gộp, mẫu số nhỏ
 SMALL_N = 1000  # ngưỡng diễn giải của project (findings.json meta.min_n_to_interpret)
+FEW_K = 5       # tử số dưới ngưỡng này: đẩy xuống cuối bảng SMR, quá ít ca
 THIN_K = 10     # tử số dưới ngưỡng này: tỷ số không kết luận được (theo A1, mục 9)
 
 
@@ -686,7 +687,7 @@ def page2(data, F, H):
     # vòng rỗng là SMR chỉ chuẩn hoá theo sản phẩm. Kênh có tử số dưới 10 ghi mờ.
     smr_sc = F["origination_cohort"]["mob12"]["smr_by_channel"]
     sx_rows = sorted((r for r in smr_sc["product_x_cut12"]["primary"] if r["channel_type"] != UNKNOWN),
-                     key=lambda r: -r["smr"])
+                     key=lambda r: (r["observed"] < FEW_K, -r["smr"]))
     sp_by = by(smr_sc["product_only"]["primary"], "channel_type")
     s_items = []
     for pr in sx_rows:

diff --git a/scripts/headlines.py b/scripts/headlines.py
@@ -327,9 +327,7 @@ def page2(f):
 
     T = Text()
     trellis = T.done(
-        f"Trong thẻ, Contact center {T.pct(cell('Revolving loans', 'Contact center')('rate'), 3)} và Stone "
-        f"{T.pct(cell('Revolving loans', 'Stone')('rate'), 3)} so với Credit and cash offices "
-        f"{T.pct(cell('Revolving loans', 'Credit and cash offices')('rate'), 3)} tại MOB 12, nhưng "
+        "Trong thẻ, tỷ lệ thô tại MOB 12 của Contact center và Stone cao hơn Credit and cash offices, nhưng "
         f"{T.pct(mix_cco('share_of_channel_product'), 1)} thẻ của kênh sau mở từ -35 trở về sau, "
         f"Contact center chỉ {T.pct(mix_cc('share_of_channel_product'), 1)}")
 
